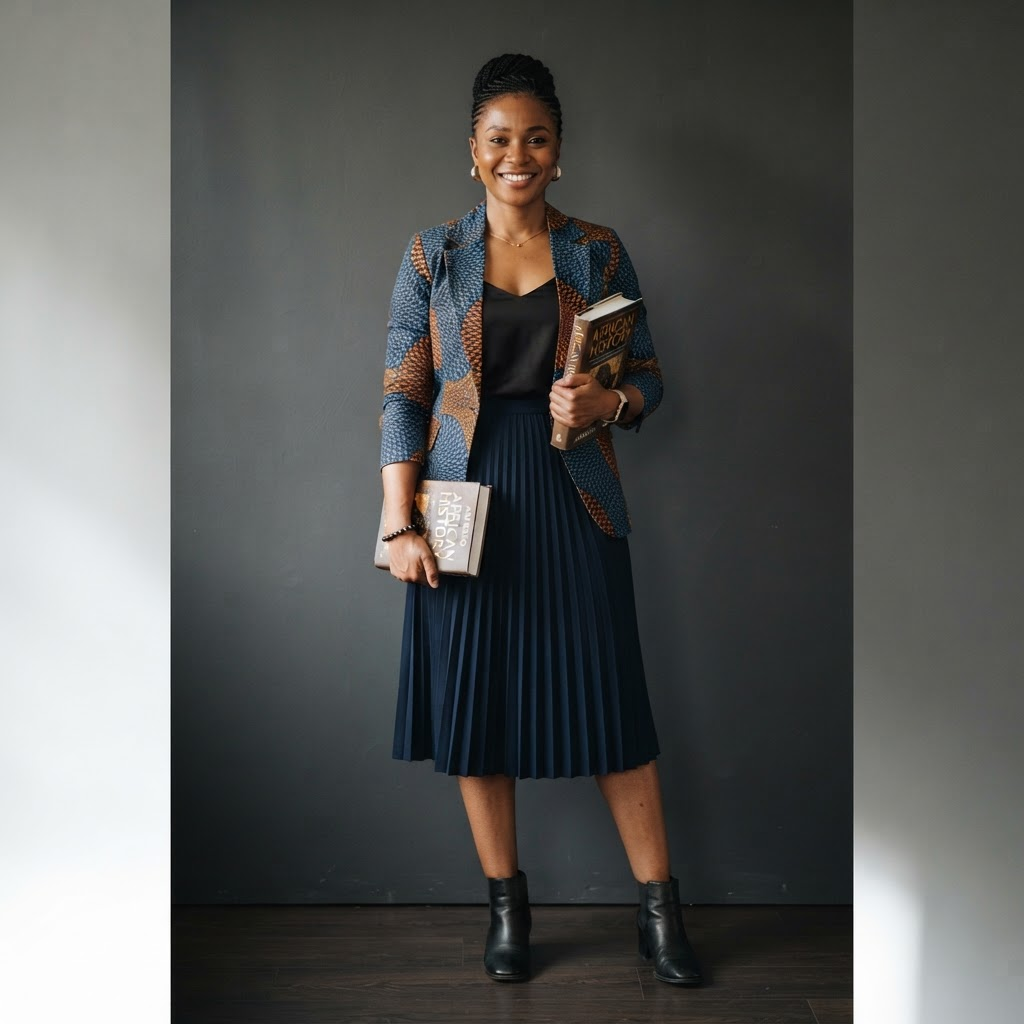
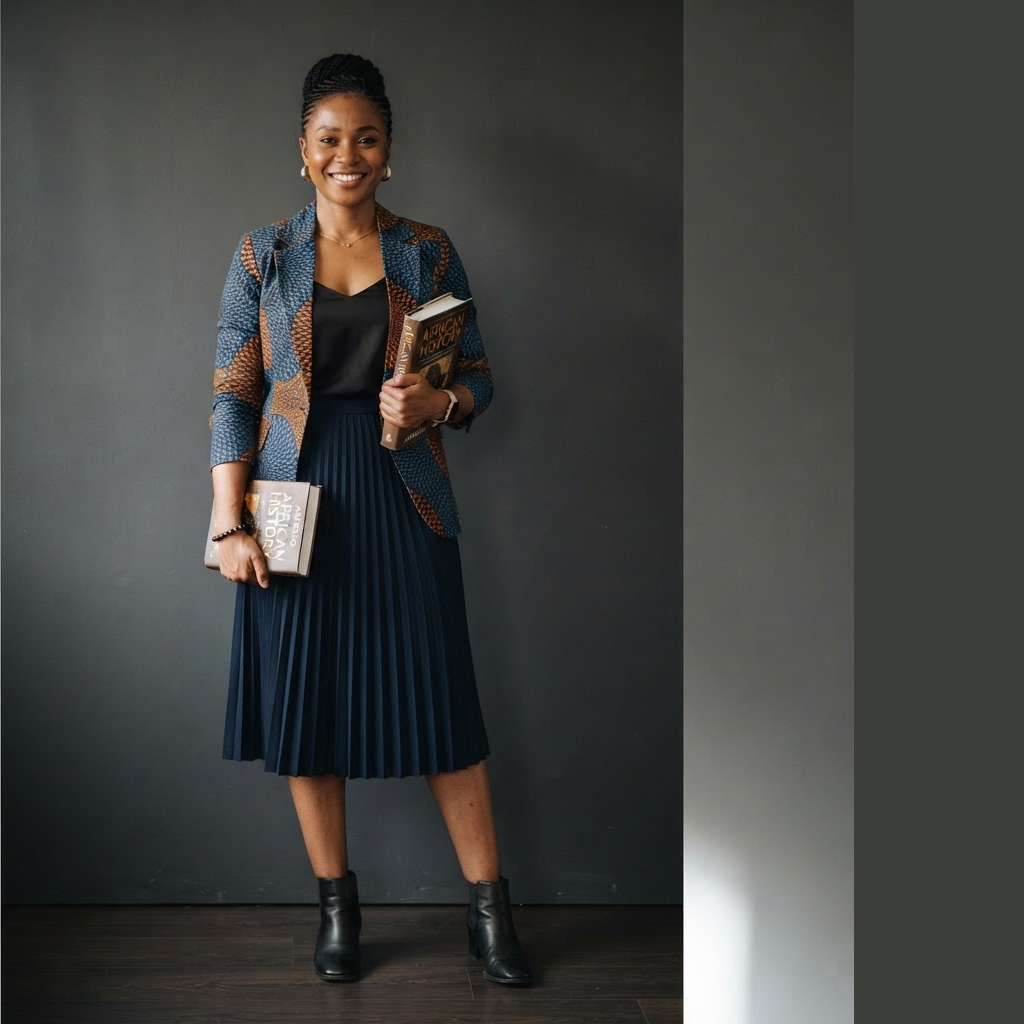
Double slide-1 globe rotation speed per Tom's request (0.0014 -> 0.0028) so it visibly keeps spinning through the AVM Morgan intro. Also includes the previously-pending teacher_woman.png pillarbox fix (baked-in light-gray margin removed, replaced with matching studio-backdrop color) so the MUSLIM/CH

diff --git a/avm_morgan_docs/interactive_keynote_sample.html b/avm_morgan_docs/interactive_keynote_sample.html
@@ -1038,10 +1038,10 @@ function buildGlobe(){
     const sphere = new THREE.Mesh(new THREE.SphereGeometry(3,64,64), new THREE.MeshStandardMaterial({map:tex, roughness:0.6, metalness:0.05}));
     group.add(sphere);
 
-    /* Slow, deliberate spin — the country only spans a narrow slice of the full 360° wrap, so a
-       slower rate keeps it in clear view for longer stretches while AVM Morgan is introduced. */
+    /* Doubled spin rate per Tom's request (Aug 28 2026) so the globe visibly keeps turning
+       throughout the AVM Morgan introduction rather than looking near-static. */
     function anim(){
-      group.rotation.y += 0.0014;
+      group.rotation.y += 0.0028;
       renderer.render(scene,camera);
       requestAnimationFrame(anim);
     }
